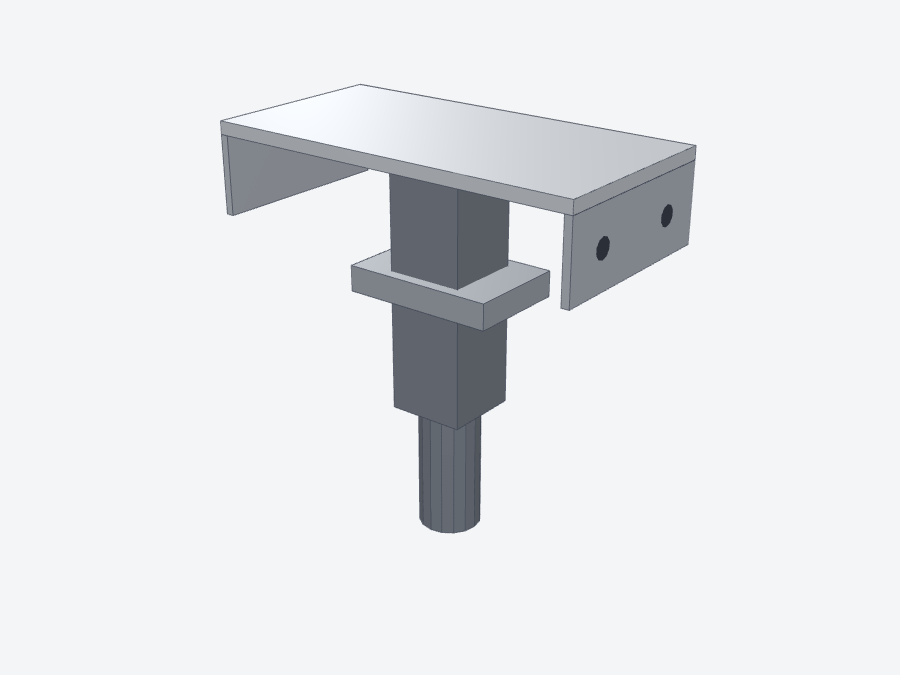
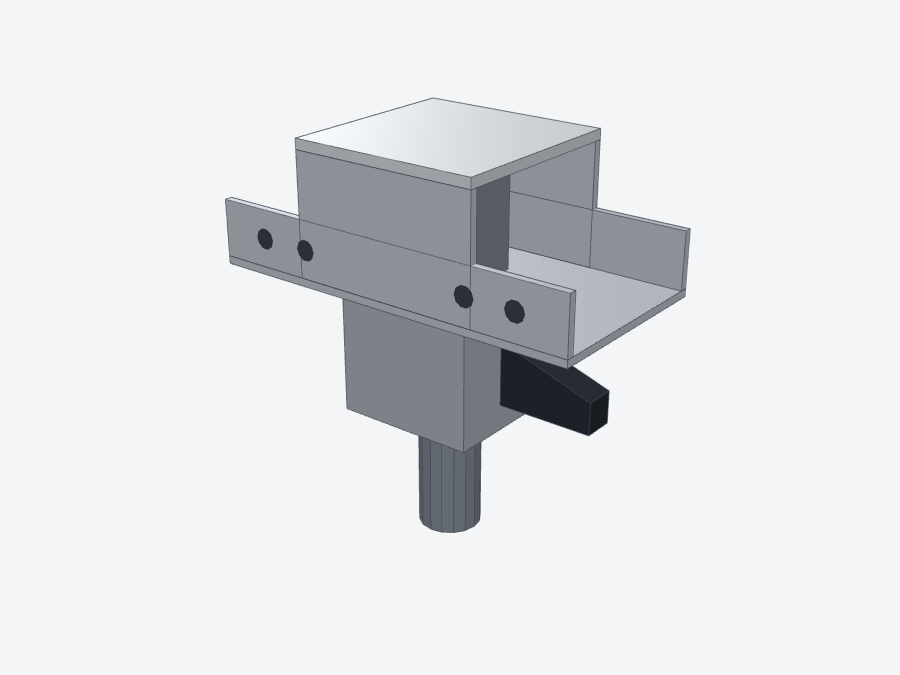
Components catalogue: prop head as a real drop head (cradle for the keel ends, square top plate, drop wedge), keel with ribs and end pin holes
Claude-Session: https://claude.ai/code/session_01XvAavARPdfqHQtLmTJaWov

Changed region(s): [[0.2178, 0.1556, 0.7778, 0.6844], [0.4356, 0.1244, 0.4978, 0.1556]]

diff --git a/lib/design-engine/parts3d.ts b/lib/design-engine/parts3d.ts
@@ -106,8 +106,19 @@ export const PARTS: PartDef[] = [
   { key: "sc", name: "Soffit corner (slab corner)", group: "Corners & edges", size: "100 × 100 × 1200", material: "Aluminium 6061-T6", use: "Joins the top of the wall panels to the deck panels round every room.", match: /^SC/, build: make((b) => b.with((p) => [p[1], -p[0], p[2]], () => corner(b, 100, 100, 1200))) },
   { key: "kicker", name: "Kicker", group: "Corners & edges", size: "150 × 1200", material: "Aluminium 6061-T6", use: "Fixed on the outside face at slab level; the next lift of wall panels starts on it.", match: /^K(CE|IC|K)?-|^KICK/, build: make((b) => { b.box([0, 0, 0], [1200, 150, 4], SKIN); b.box([0, 144, 4], [1200, 150, 65], AL); b.box([0, 0, 4], [1200, 6, 65], AL); for (let x = 0; x <= 1200; x += 300) { const x0 = Math.min(Math.max(0, x - 3), 1194); b.box([x0, 6, 4], [x0 + 6, 144, 65], ALD); } for (let x = 75; x < 1200; x += 150) { b.hole([x, 150.6, 40], "y", 8); b.hole([x, -0.6, 40], "y", 8); } b.hole([600, 75, -0.6], "z", 12); }) },
   // ---------------- deck support ----------------
-  { key: "mid-beam", name: "Mid beam", group: "Deck support", size: "150 × 1050", material: "Aluminium extrusion", use: "Carries the deck panels between prop heads; deck rails pin to its sides.", match: /^MB-/, build: make((b) => { b.box([0, 94, 0], [1050, 100, 150], SKIN); b.box([0, 0, 0], [1050, 94, 6], AL); b.box([0, 0, 144], [1050, 94, 150], AL); b.box([0, 0, 6], [1050, 6, 144], ALD); for (const x of [0, 1044]) b.box([x, 6, 6], [x + 6, 94, 144], ALD); for (let x = 75; x < 1050; x += 150) { b.hole([x, 50, -0.6], "z", 8); b.hole([x, 50, 150.6], "z", 8); } }) },
-  { key: "prop-head", name: "Prop head (drop head)", group: "Deck support", size: "150 × 300 plate", material: "Aluminium head, steel stem", use: "Sits on the prop; carries the mid-beam ends and stays up when the deck is stripped (early striking).", match: /^PH-/, build: make((b) => { b.box([-150, 200, -75], [150, 210, 75], SKIN); b.box([-150, 140, -75], [-144, 200, 75], AL); b.box([144, 140, -75], [150, 200, 75], AL); for (const x of [-147.6, 147.6]) { b.hole([x + (x < 0 ? -3 : 3), 170, -40], "x", 8); b.hole([x + (x < 0 ? -3 : 3), 170, 40], "x", 8); } b.box([-30, 0, -30], [30, 200, 30], STEEL); b.box([-60, 90, -40], [60, 110, 40], ZINC); b.cyl([0, -100, 0], "y", 24, 100, STEEL); }) },
+  { key: "mid-beam", name: "Keel / mid beam", group: "Deck support", size: "150 × 100 × 1050–1800", material: "Aluminium extrusion, 4 mm top skin", use: "Runs wall to wall between the deck rows, its ends in the prop-head cradles; the deck panels pin to its sides and its top forms the slab with them.", match: /^MB-/, build: make((b) => { b.box([0, 94, 0], [1050, 100, 150], SKIN); b.box([0, 0, 0], [1050, 94, 6], AL); b.box([0, 0, 144], [1050, 94, 150], AL); b.box([0, 0, 6], [1050, 6, 144], ALD); for (const x of [0, 1044]) b.box([x, 6, 6], [x + 6, 94, 144], ALD); for (let x = 150; x < 1050; x += 300) b.box([x - 3, 6, 6], [x + 3, 94, 144], ALD); for (let x = 75; x < 1050; x += 150) { b.hole([x, 50, -0.6], "z", 8); b.hole([x, 50, 150.6], "z", 8); } for (const x of [40, 1010]) { b.hole([x, 50, -0.6], "z", 8); b.hole([x, 50, 150.6], "z", 8); } }) },
+  { key: "prop-head", name: "Prop head (drop head)", group: "Deck support", size: "150 × 300 cradle, 150 × 150 top plate, 100 mm drop", material: "Steel stem and drop collar, aluminium cradle", use: "Sits on the prop. The keel (mid beam) ends rest in its cradle from both sides and its square top plate sits flush with the deck skin between them. Knocking the wedge drops the cradle 100 mm so keels and deck panels come away while the prop and head stay up (early striking).", match: /^PH-/, build: make((b) => {
+    const cx = 150, cz = 75;                                   // half cradle length (along the keel) and half width
+    b.cyl([0, -100, 0], "y", 24, 100, STEEL);                  // spigot into the prop
+    b.box([-30, 0, -30], [30, 200, 30], STEEL);                // square stem
+    b.box([-55, 0, -55], [55, 90, 55], ZINC);                  // drop collar on the stem
+    b.prism([[55, 20], [130, 20], [130, 45], [55, 70]], "z", -12, 12, DARK);   // the drop wedge through the collar
+    b.box([-cx, 100, -cz], [cx, 106, cz], AL);                 // cradle floor: a keel end sits on each half
+    b.box([-cx, 106, -cz], [cx, 150, -cz + 6], AL); b.box([-cx, 106, cz - 6], [cx, 150, cz], AL);   // side lugs, pinned to the keel ends
+    b.box([-75, 200, -75], [75, 208, 75], SKIN);               // square top plate flush with the deck skin
+    b.box([-75, 106, -75], [75, 200, -69], AL); b.box([-75, 106, 69], [75, 200, 75], AL);           // the plate's carrier round the stem
+    for (const z of [-cz, cz]) for (const x of [-110, -70, 70, 110]) b.hole([x, 128, z + (z < 0 ? -0.6 : 0.6)], "z", 8);
+  }) },
   { key: "beam-prop-head", name: "Beam prop head", group: "Deck support", size: "100 × 250 plate", material: "Steel / aluminium", use: "Carries the beam bottom panels at 1.2 m spacing.", match: /^BPH/, build: make((b) => { b.box([-125, 150, -50], [125, 158, 50], ZINC); b.box([-125, 158, -50], [-119, 220, 50], AL); b.box([119, 158, -50], [125, 220, 50], AL); b.box([-25, 0, -25], [25, 150, 25], STEEL); b.cyl([0, -100, 0], "y", 24, 100, STEEL); }) },
   { key: "prop", name: "Adjustable steel prop", group: "Deck support", size: "2.0 – 3.5 m", material: "Steel tube Ø60 / Ø48, painted", use: "Supports the prop heads, beams and stair soffit; set to height with the collar nut and pin.", match: /^PROP$/, build: make((b) => prop(b, 2958)) },
   // ---------------- joints ----------------
